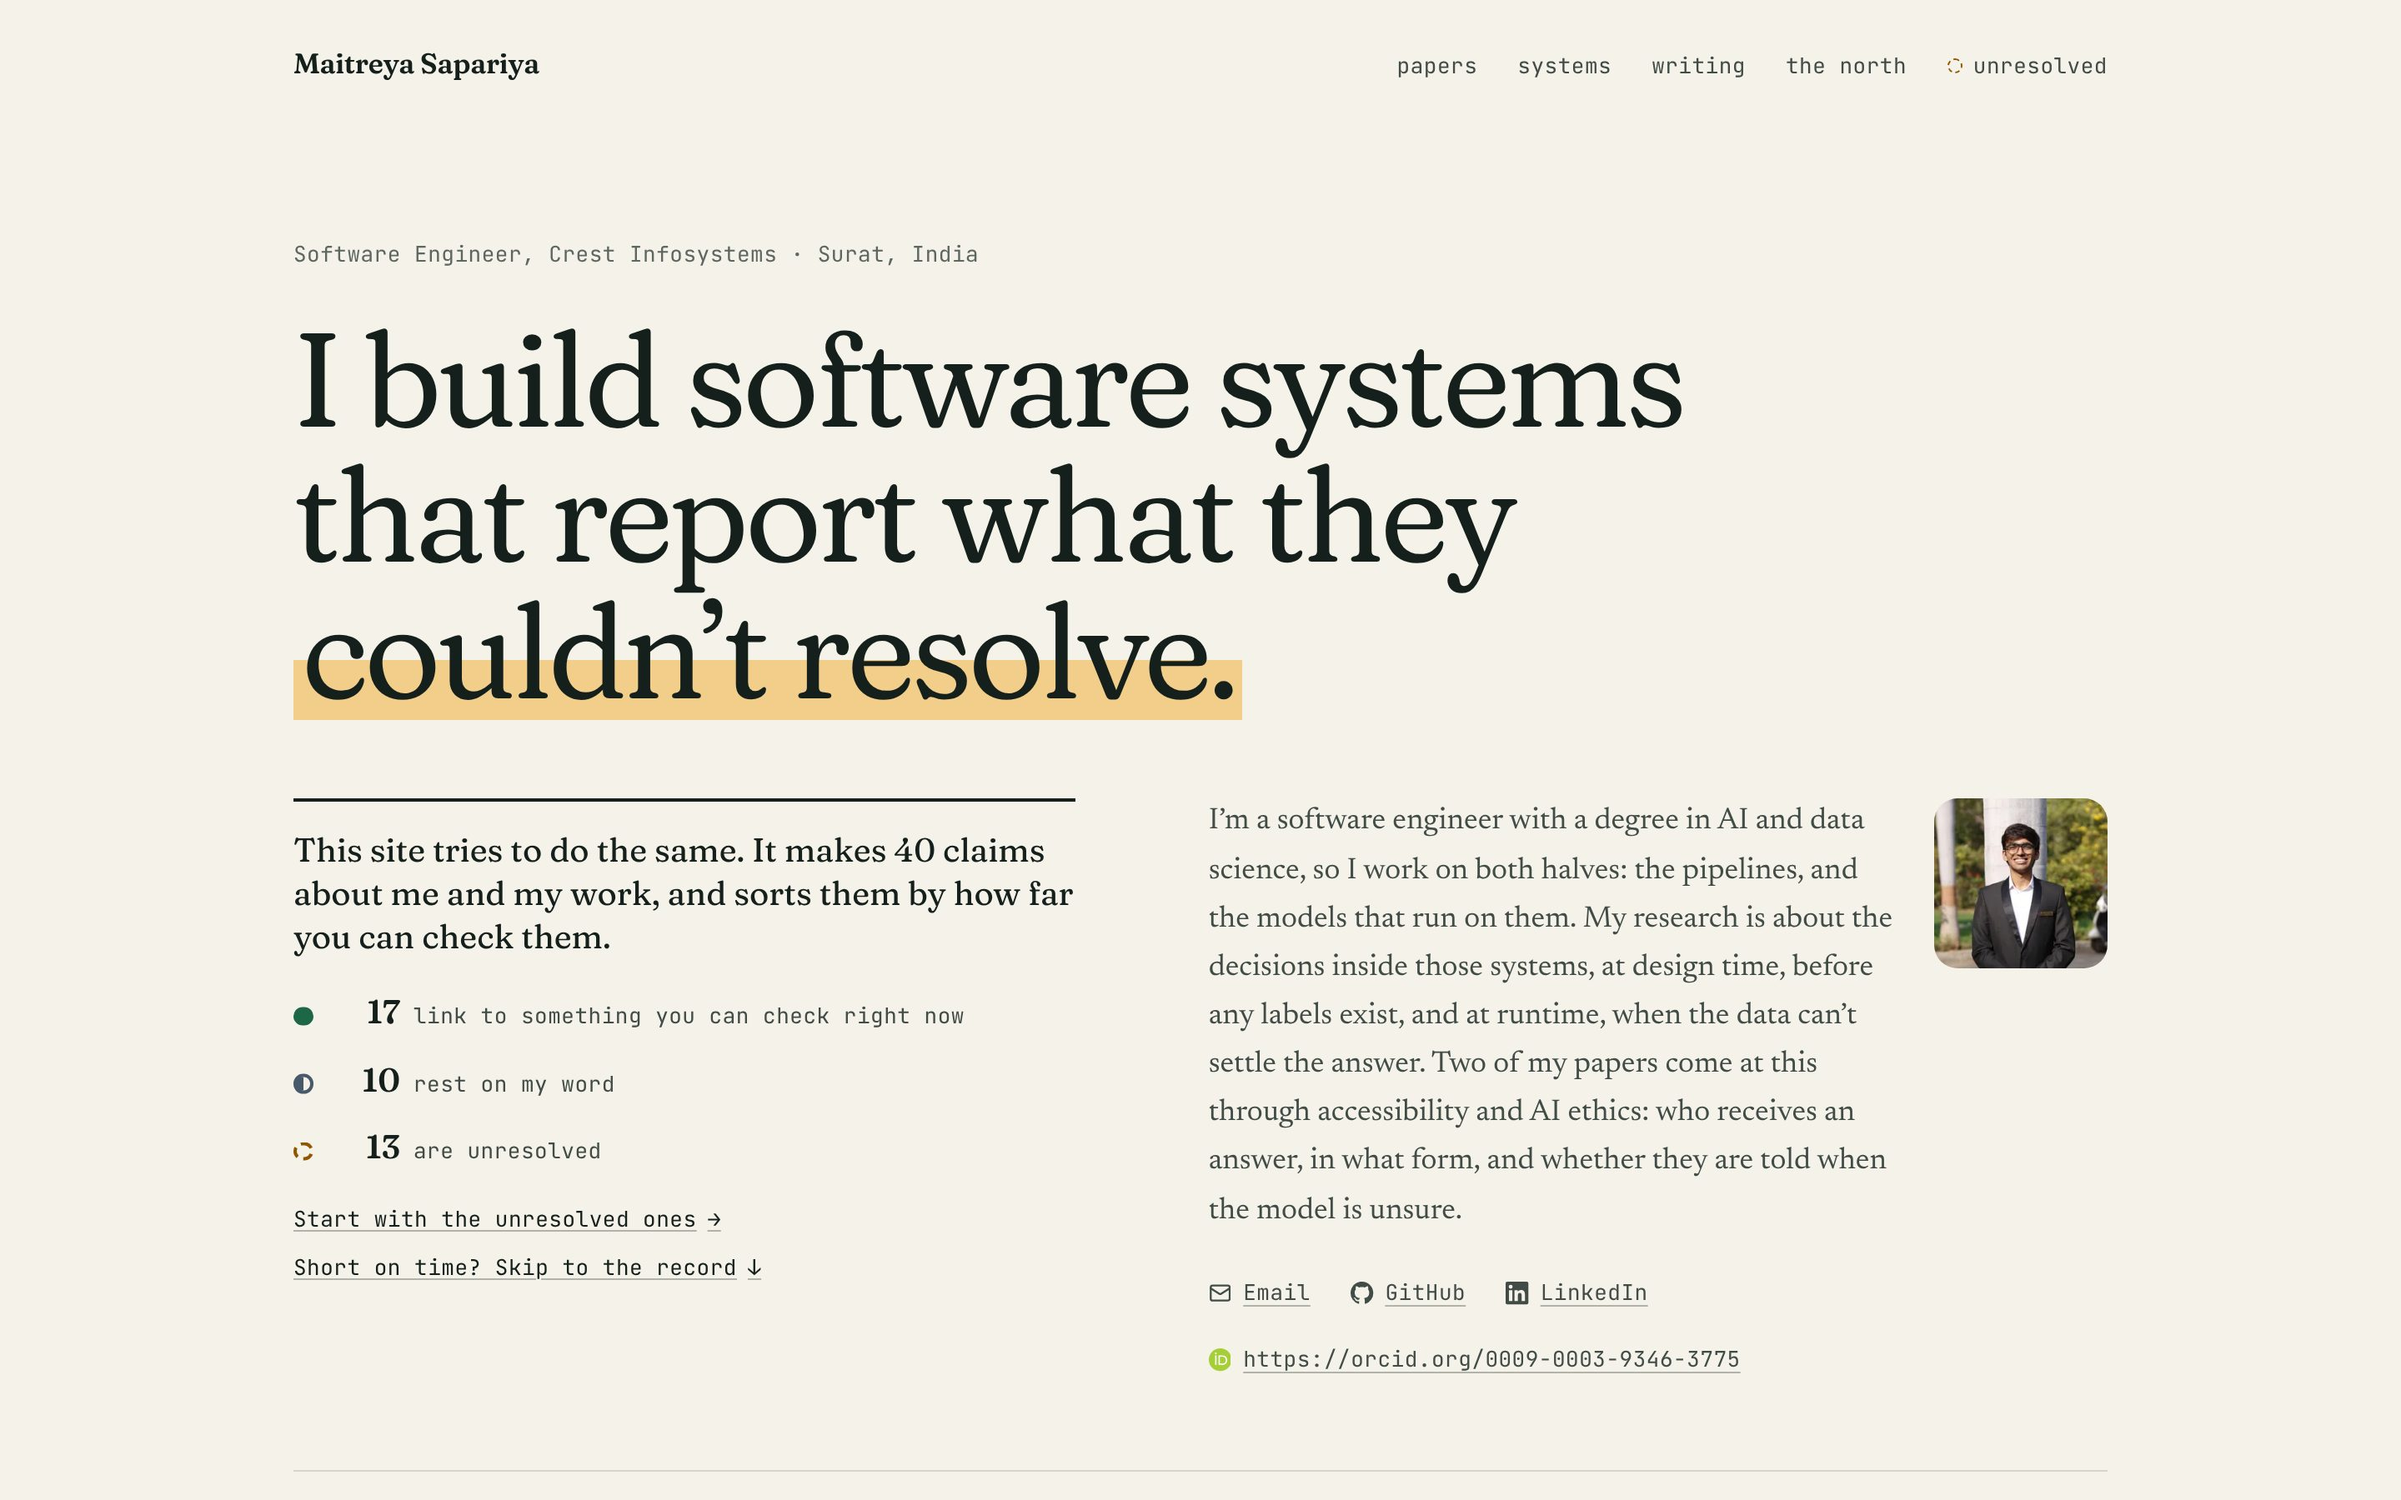
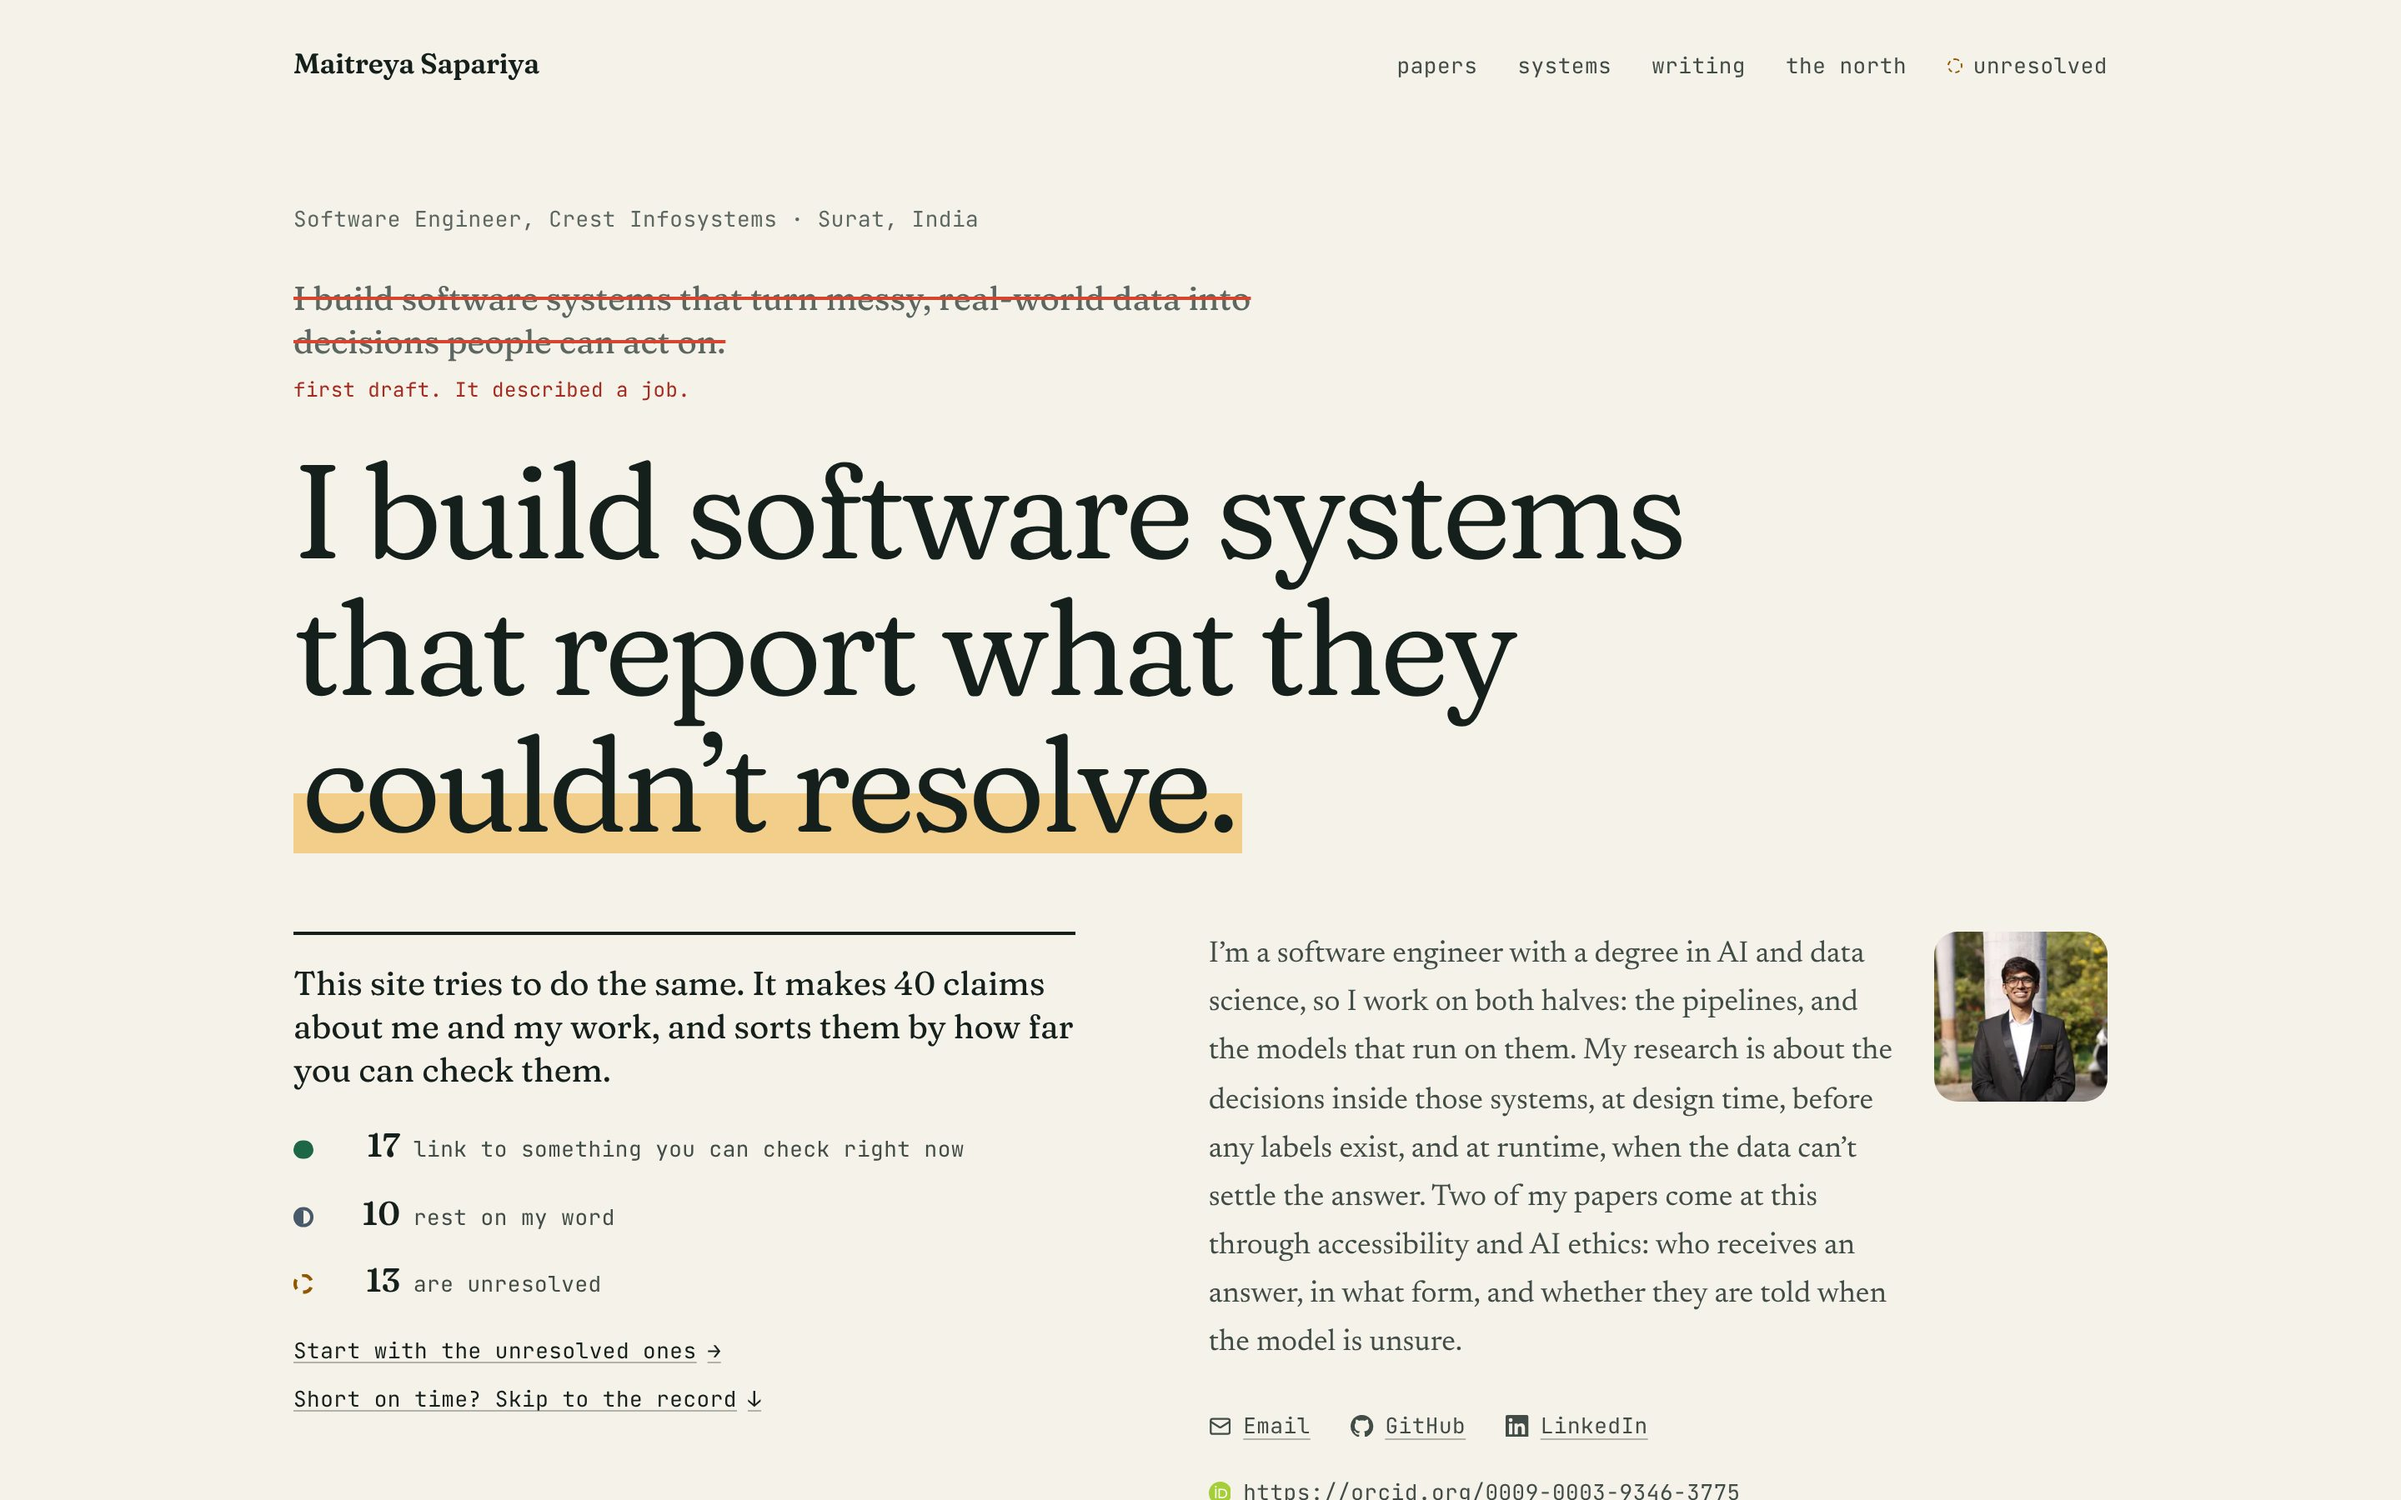
feat(home): the first draft crossed out, a housing for the lamps, a closing band
Three design moves made at Maitreya's invitation to improvise. The thesis
it replaced sits above the thesis, struck through, with a proofreader's
note. The three lamps sit in a dark housing so the mother's screen reads as
a signal. The page ends on an inverted band that counts what is still
unresolved. Audit re-run: no violations.

Claude-Session: https://claude.ai/code/session_01Stmo8Lh2Jpa6mqPBLQ4AAC

diff --git a/src/styles/global.css b/src/styles/global.css
@@ -51,6 +51,10 @@
   --marker: rgba(240, 169, 46, 0.5);
   --lamp-off: rgba(21, 32, 28, 0.1);
   --shadow: 0 1px 1px rgba(21, 32, 28, 0.05), 0 14px 32px -18px rgba(21, 32, 28, 0.28);
+  /* The body of the three-lamp signal. Dark in both themes: it is an object. */
+  --housing: #15201c;
+  --housing-edge: #15201c;
+  --housing-off: rgba(245, 242, 233, 0.13);
 
   --brand-orcid: #a6ce39;
 
@@ -136,6 +140,8 @@
     --marker: rgba(240, 169, 46, 0.3);
     --lamp-off: rgba(236, 232, 220, 0.1);
     --shadow: 0 1px 1px rgba(0, 0, 0, 0.3), 0 14px 32px -18px rgba(0, 0, 0, 0.7);
+    --housing: #060a09;
+    --housing-edge: rgba(236, 232, 220, 0.32);
   }
 }
 
@@ -159,6 +165,8 @@
   --marker: rgba(240, 169, 46, 0.3);
   --lamp-off: rgba(236, 232, 220, 0.1);
   --shadow: 0 1px 1px rgba(0, 0, 0, 0.3), 0 14px 32px -18px rgba(0, 0, 0, 0.7);
+  --housing: #060a09;
+  --housing-edge: rgba(236, 232, 220, 0.32);
 }
 
 /* A reader who asks for more contrast gets the faint tier folded into the
@@ -2563,4 +2571,134 @@ html:not(.js) .demo-control {
 
 .offline .mark {
   transform: translateY(0.05em);
+}
+
+/* ============================================================
+   Improvised, last pass
+   ============================================================ */
+
+/* The first draft of the thesis, crossed out in public. */
+.masthead {
+  padding-top: clamp(1.5rem, 3vw, 2.75rem);
+}
+
+.thesis-was {
+  max-width: 36rem;
+  margin: 0 0 var(--s-5);
+  font-family: var(--font-display);
+  font-variation-settings: 'SOFT' 70;
+  font-size: var(--t-md);
+  line-height: 1.32;
+  color: var(--ink-faint);
+}
+
+.thesis-was s {
+  text-decoration-line: line-through;
+  text-decoration-color: var(--red-fill);
+  text-decoration-thickness: 0.1em;
+}
+
+.thesis-was-note {
+  display: block;
+  margin-top: var(--s-2);
+  font-family: var(--font-mono);
+  font-size: var(--t-xs);
+  letter-spacing: var(--track-mono);
+  color: var(--red);
+}
+
+/* The three lamps sit in a housing, like the object they are. */
+.lamps {
+  position: relative;
+  padding: 0.5rem 0 0.5rem 0.5rem;
+  isolation: isolate;
+}
+
+.lamps::before {
+  content: '';
+  position: absolute;
+  z-index: -1;
+  left: 0;
+  top: 0;
+  bottom: 0;
+  width: 4.25rem;
+  border-radius: 2.2rem;
+  background: var(--housing);
+  border: 1px solid var(--housing-edge);
+}
+
+.lamp i {
+  background: var(--housing-off);
+  border-color: rgba(245, 242, 233, 0.28);
+}
+
+.lamp-red.is-lit i {
+  box-shadow: 0 0 0 5px color-mix(in srgb, var(--red-fill) 35%, transparent), 0 0 22px 2px color-mix(in srgb, var(--red-fill) 55%, transparent);
+}
+
+.lamp-amber.is-lit i {
+  box-shadow: 0 0 0 5px color-mix(in srgb, var(--amber-fill) 35%, transparent), 0 0 22px 2px color-mix(in srgb, var(--amber-fill) 55%, transparent);
+}
+
+/* The last word: an inverted band, the one place the page changes colour. */
+.closing {
+  margin-top: var(--section-y);
+  padding: clamp(3.5rem, 9vw, 7rem) 0;
+  background: var(--ink);
+  color: var(--paper);
+}
+
+.closing .eyebrow {
+  color: color-mix(in srgb, var(--paper) 74%, var(--ink));
+}
+
+.closing h2 {
+  font-size: var(--t-hero);
+  font-weight: 360;
+  line-height: 1.02;
+  letter-spacing: -0.032em;
+  max-width: 13em;
+  margin-bottom: var(--s-5);
+}
+
+.closing h2 b {
+  font-weight: inherit;
+  text-decoration: underline;
+  text-decoration-style: dashed;
+  text-decoration-color: var(--amber-fill);
+  text-decoration-thickness: 0.07em;
+  text-underline-offset: 0.14em;
+}
+
+.closing p:not(.eyebrow) {
+  max-width: var(--measure);
+  font-size: var(--t-md);
+  line-height: 1.5;
+  color: color-mix(in srgb, var(--paper) 86%, var(--ink));
+}
+
+.closing .cta {
+  border-color: var(--paper);
+  color: var(--paper);
+}
+
+.closing .cta.primary {
+  background: var(--paper);
+  color: var(--ink);
+}
+
+.closing .cta:hover {
+  background: var(--amber-fill);
+  border-color: var(--amber-fill);
+  color: #15201c;
+}
+
+main:has(.closing) + .site-footer {
+  margin-top: 0;
+}
+
+@media (forced-colors: active) {
+  .lamps::before {
+    display: none;
+  }
 }

diff --git a/FABLE_NOTES.md b/FABLE_NOTES.md
@@ -32,6 +32,23 @@ The old site said that about you. This one does it.
 
 ![Home, desktop](docs/fable/01-home-hero.jpg)
 
+### Added in the last few minutes
+
+You said to improvise, so three design moves went in at the end:
+
+- **Your first draft of the thesis, crossed out above the new one**, with a
+  red note: "first draft. It described a job." It is the site's own gesture
+  turned on its own headline. The old sentence is yours (it is quoted in
+  `CLAUDE.md`); the note is mine. If showing the discarded line feels like
+  too much, delete the `thesis-was` paragraph in `src/pages/index.astro`.
+- **The three lamps sit in a housing**, so the mother's screen reads as a
+  signal and not three circles.
+- **A closing band**, the one place the page inverts: "13 things on this
+  site are still unresolved." The number is counted, not typed.
+
+![Home, with the first draft crossed out](docs/fable/14-home-first-draft.jpg)
+![The closing band](docs/fable/15-closing-band.jpg)
+
 ---
 
 ## What I saw
@@ -235,7 +252,9 @@ your sentences from the paper page or case study.
 
 | Where | What |
 | --- | --- |
+| Home, above the thesis | The note "first draft. It described a job." |
 | Home, under the thesis | "This site tries to do the same. It makes N claims…" and the three tally lines |
+| Home, the closing band | "N things on this site are still unresolved…" and the line under it |
 | Home, "reported as found" | The heading, the lede, and the body text of the six cards |
 | Home, the record | "The same work, as a CV would list it." |
 | Home, writing | "Where I sound like myself." |
